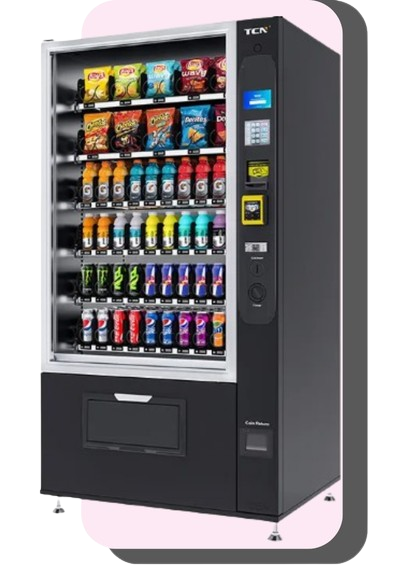
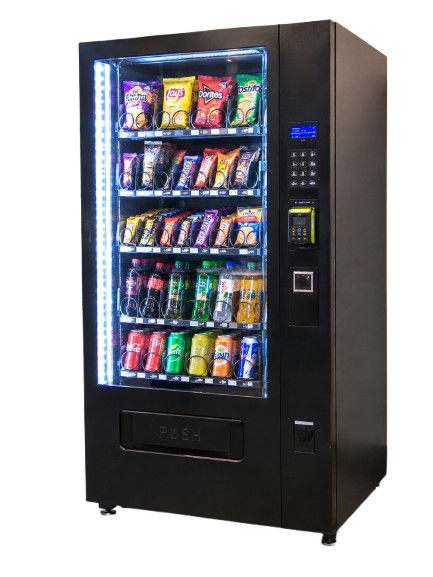
style: update color palette and enhance section backgrounds for a cohesive design

diff --git a/src/styles/global.css b/src/styles/global.css
@@ -4,34 +4,43 @@
 
 /* --- CSS Custom Properties --- */
 :root {
-  /* Brand Colors */
-  --color-primary: #E8A0BF;
-  --color-primary-dark: #D4789E;
-  --color-primary-darker: #B85C82;
-  --color-primary-light: #F5D5E5;
-  --color-primary-subtle: #FBE9F1;
+  /* Brand Colors — Harmonized Sage Green #60816A & Dusty Rose #E8A0BF */
+  --color-primary: #60816A;
+  --color-primary-dark: #4B6853;
+  --color-primary-darker: #38503F;
+  --color-primary-light: #B2C9BA;
+  --color-primary-subtle: #EDF4EF;
+
+  /* Complementary Rose / Blush Palette */
+  --color-rose: #E8A0BF;
+  --color-rose-dark: #D4789E;
+  --color-rose-darker: #B85C82;
+  --color-rose-light: #F5D5E5;
+  --color-rose-subtle: #FDF2F7;
 
   /* Backgrounds */
   --color-bg-white: #FEFCFD;
-  --color-bg-rose: #FDF0F5;
-  --color-bg-cream: #FFF9F5;
-  --color-bg-dark: #1A1A2E;
-  --color-bg-dark-accent: #232340;
+  --color-bg-green-soft: #F0F5F2;
+  --color-bg-rose: #FDF2F7;
+  --color-bg-cream: #FAF7F4;
+  --color-bg-dark: #152219;
+  --color-bg-dark-accent: #1F3024;
 
   /* Text */
-  --color-text: #2D2D2D;
-  --color-text-secondary: #555;
-  --color-text-muted: #6B7280;
-  --color-text-on-dark: #F9FAFB;
-  --color-text-on-dark-muted: #B0B3C1;
+  --color-text: #242E27;
+  --color-text-secondary: #4A564E;
+  --color-text-muted: #6B7A70;
+  --color-text-on-dark: #F5F9F6;
+  --color-text-on-dark-muted: #A8B8AC;
 
   /* Accents */
   --color-accent-green: #25D366;
   --color-accent-green-dark: #1EBE5A;
 
   /* Borders & Surfaces */
-  --color-border: #E5E7EB;
-  --color-border-light: #F0E6EB;
+  --color-border: #E0E8E2;
+  --color-border-light: #EBF2EC;
+  --color-border-rose: #F2E3EB;
   --color-surface-elevated: #FFFFFF;
 
   /* Typography */
@@ -98,7 +107,8 @@
   --shadow-sm: 0 1px 3px rgba(0, 0, 0, 0.04), 0 1px 2px rgba(0, 0, 0, 0.03);
   --shadow-md: 0 4px 16px rgba(0, 0, 0, 0.06), 0 2px 4px rgba(0, 0, 0, 0.03);
   --shadow-lg: 0 12px 40px rgba(0, 0, 0, 0.08), 0 4px 12px rgba(0, 0, 0, 0.04);
-  --shadow-soft: 0 8px 32px rgba(232, 160, 191, 0.12);
+  --shadow-soft: 0 8px 32px rgba(96, 129, 106, 0.12);
+  --shadow-rose: 0 8px 32px rgba(232, 160, 191, 0.15);
 
   /* Transitions */
   --ease-out: cubic-bezier(0.22, 1, 0.36, 1);
@@ -286,7 +296,7 @@ p {
 .btn--primary:hover {
   background-color: var(--color-primary-darker);
   border-color: var(--color-primary-darker);
-  box-shadow: 0 6px 20px rgba(212, 120, 158, 0.3);
+  box-shadow: 0 6px 20px rgba(75, 104, 83, 0.35);
 }
 
 .btn--secondary {
